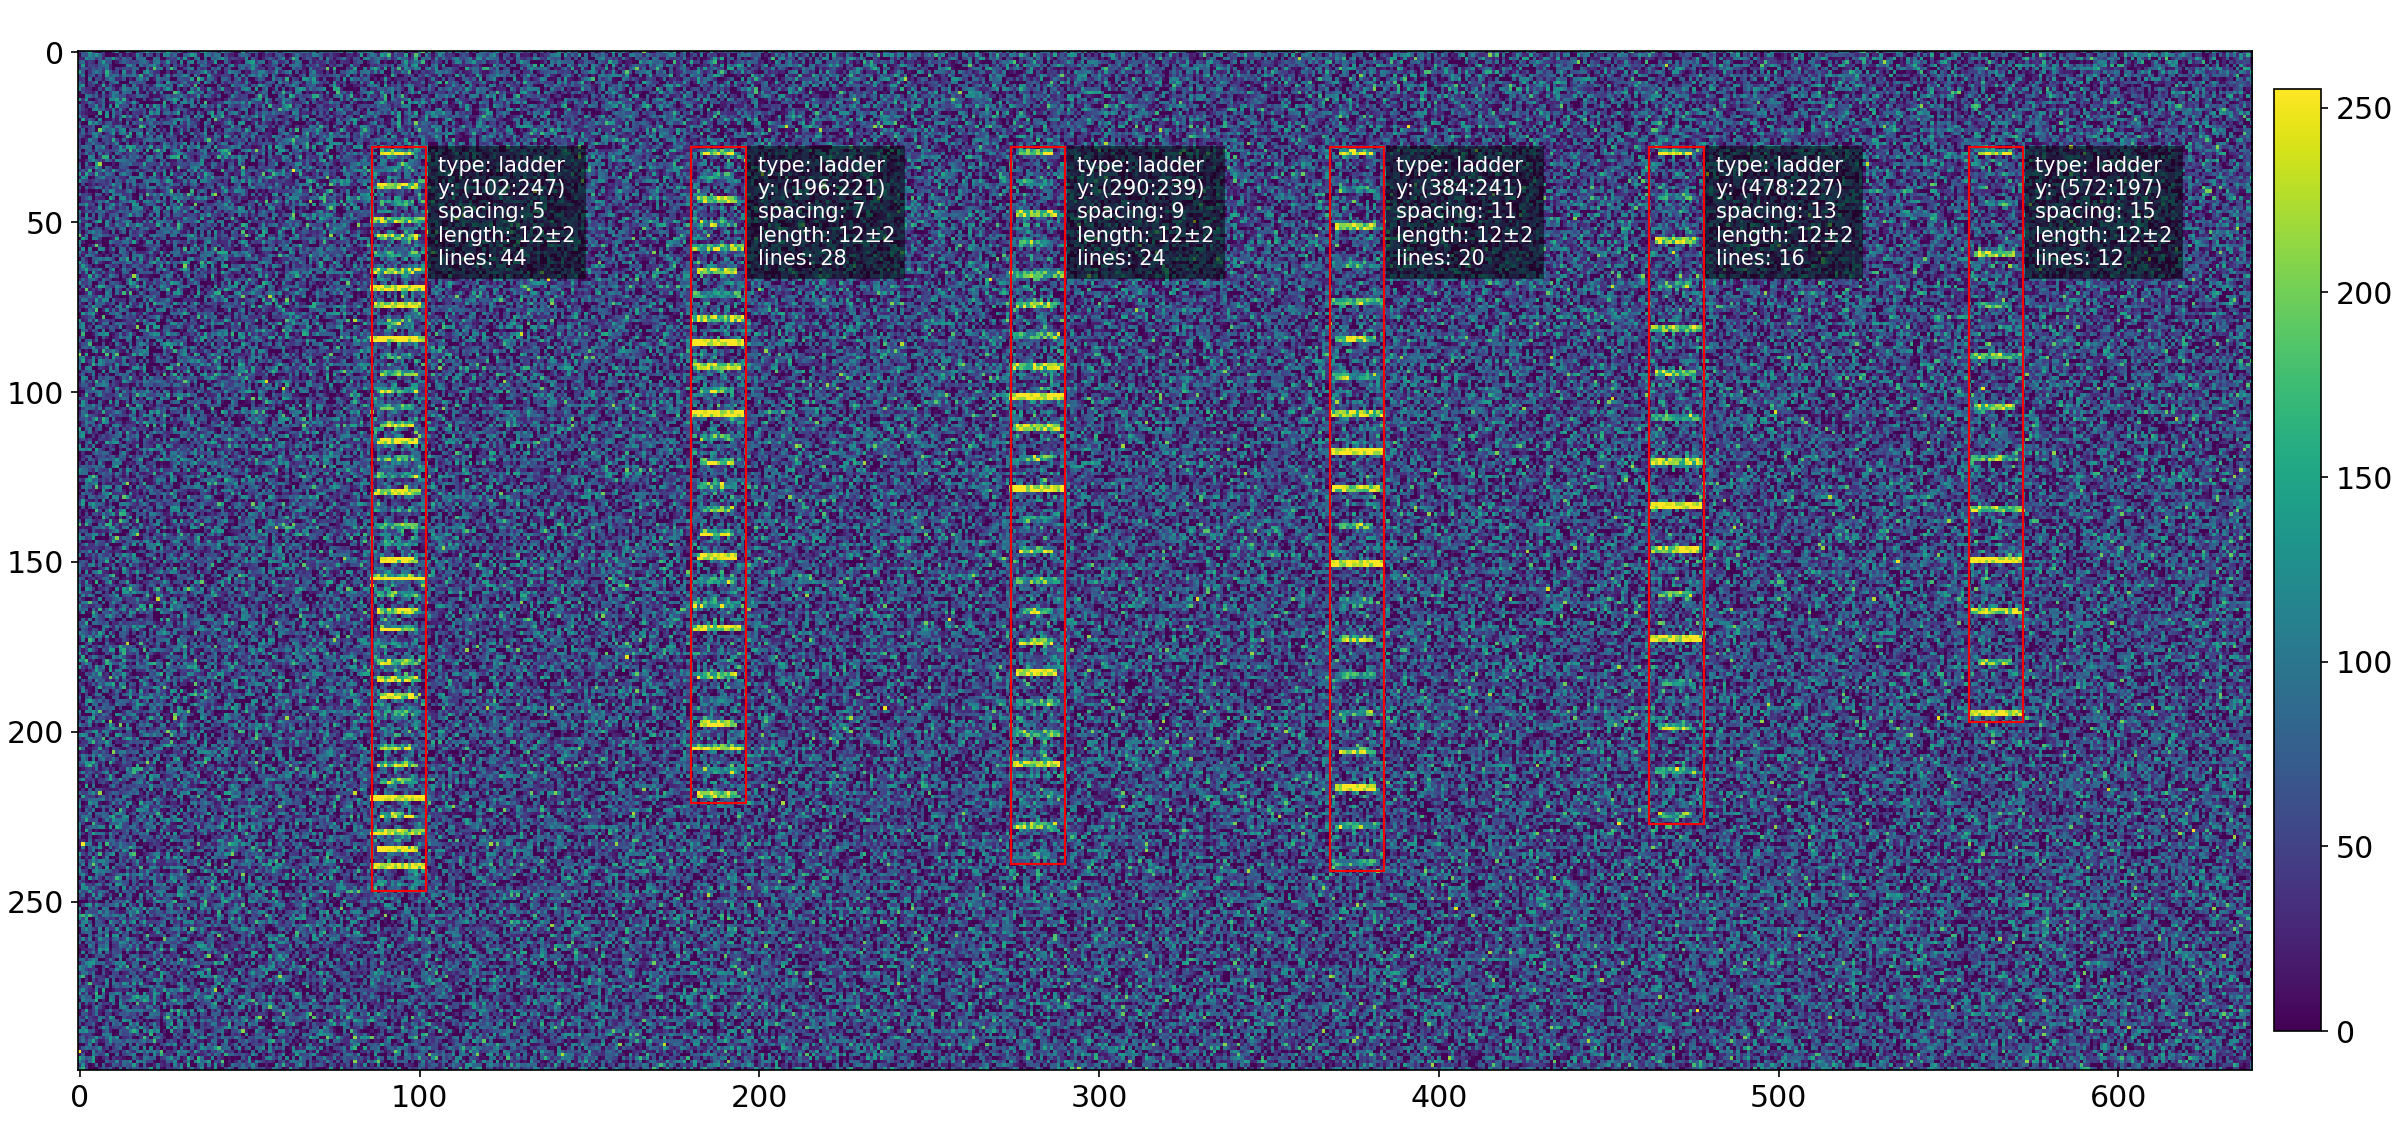
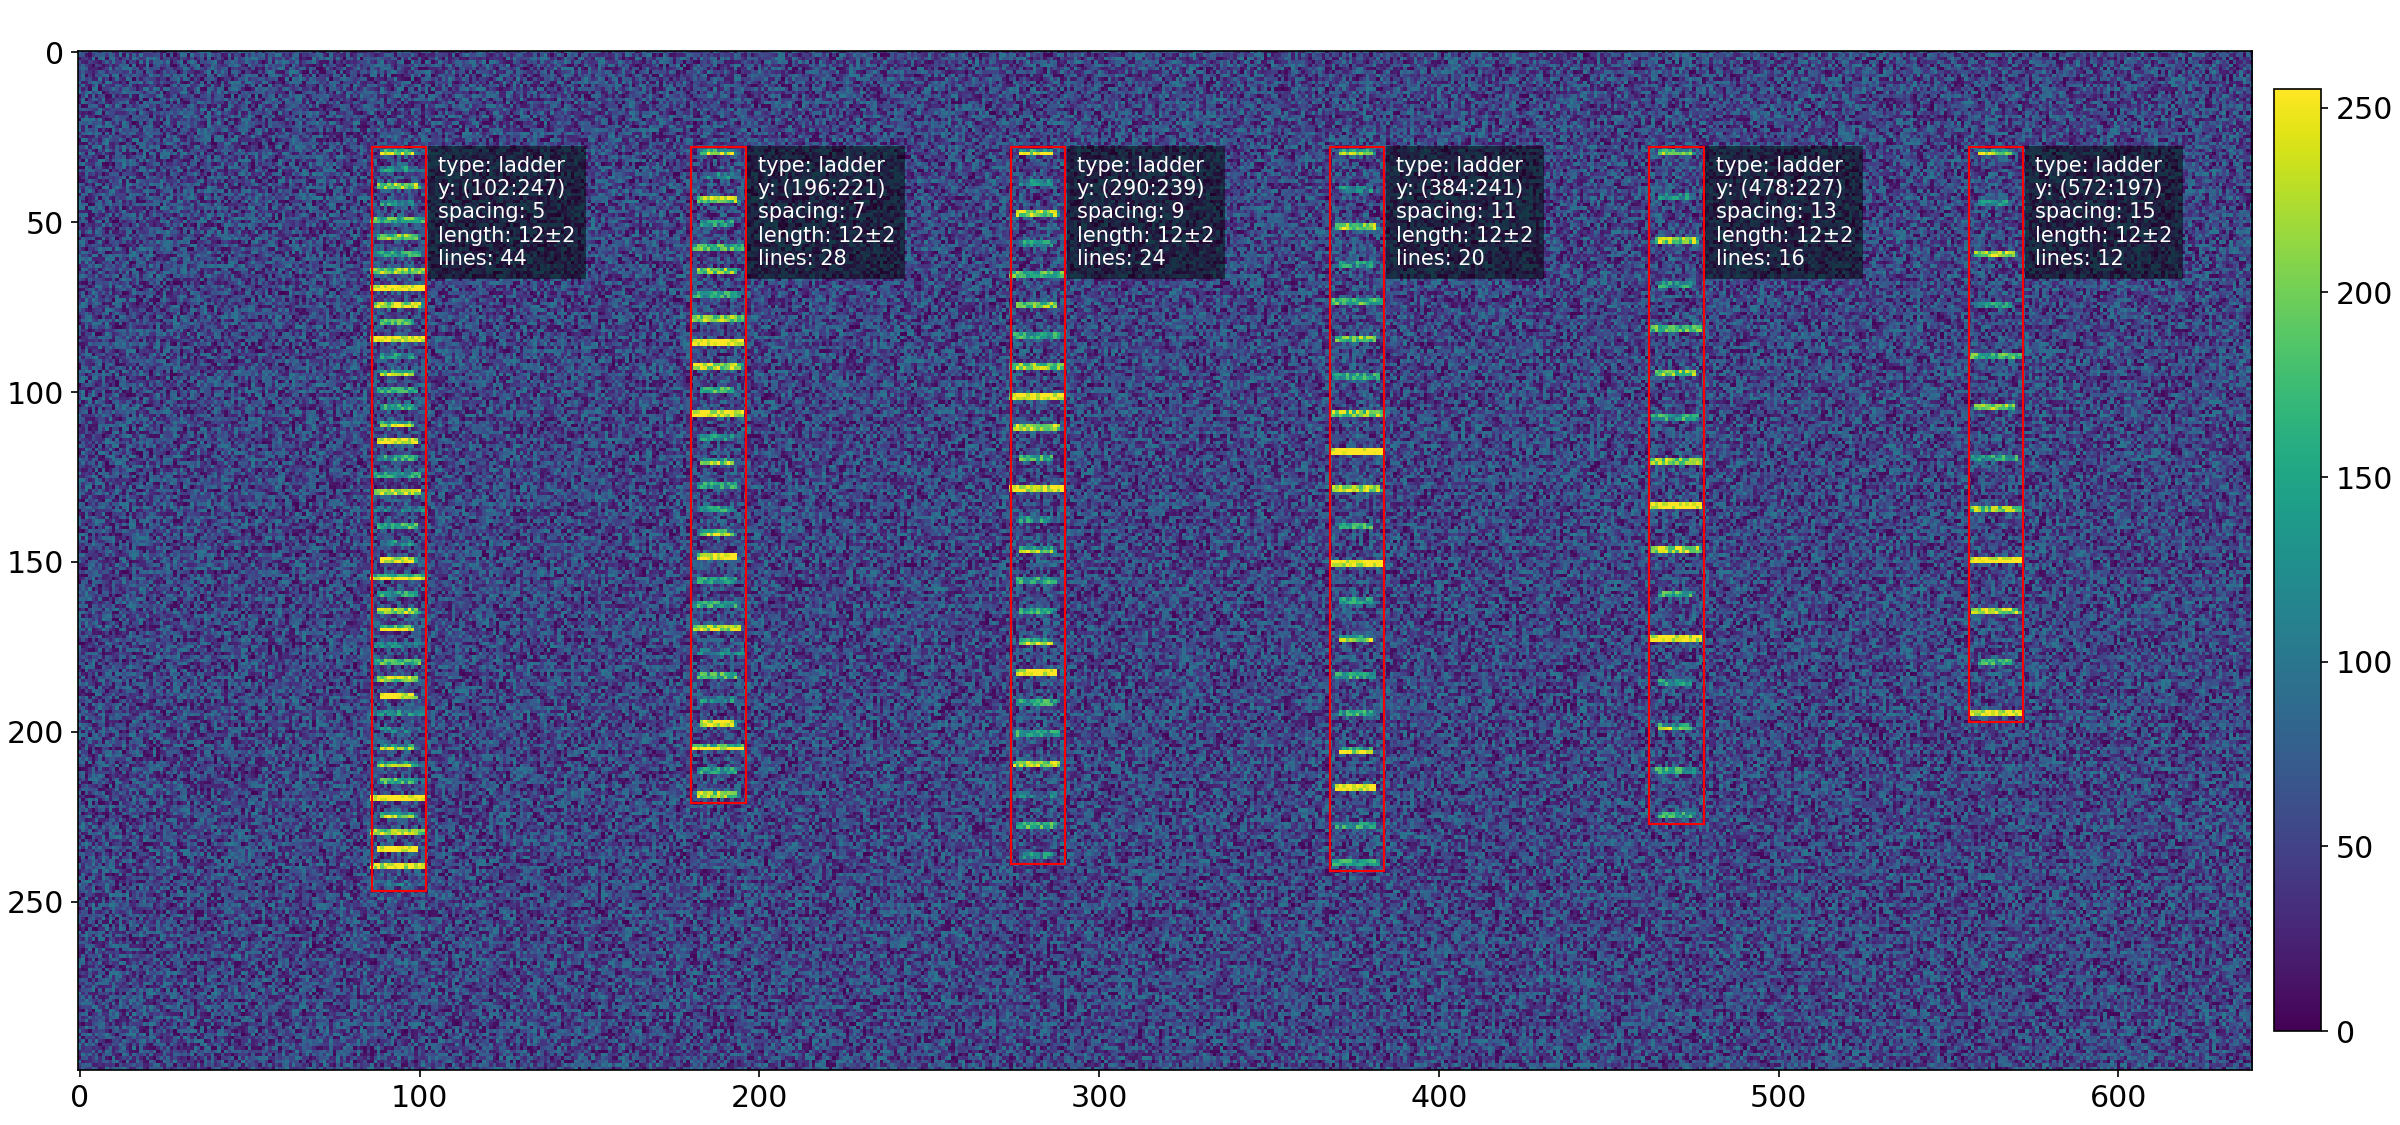
Test de bruit avec segmentation

diff --git a/ImageSynthetique.py b/ImageSynthetique.py
@@ -36,6 +36,7 @@ class Image:
         self.objects = []
         self.lines = []
         self.predicted = {}
+        self.labels = {}
 
     def create_image(self, noise_lvl, seed, classes):
         """Generate canvas for image.
@@ -64,9 +65,10 @@ class Image:
             seed (int): optional seed that determines random state
         """
         np.random.seed(seed)
-        random = np.random.normal(loc=intensity / 2,
-                                scale=intensity / 2,
-                                size=(self.height, self.width)).round()
+        random = np.random.randint(0, intensity, size=(self.height, self.width))
+        # random = np.random.normal(loc=intensity / 4,
+        #                         scale=intensity / 4,
+        #                         size=(self.height, self.width)).round()
         self.image += random
         pass
 
@@ -226,10 +228,9 @@ class Image:
         self.pad_h, self.pad_v = (pad_h, pad_v)
         windows_h = (self.width - window_size) // pad_h +1
         windows_v = (self.height - window_size) // pad_v +1
-        crops = np.zeros((windows_v, windows_h, window_size, window_size))
-        labels = np.zeros((windows_v, windows_h, self.classes))
-        segmentation_crops = np.zeros((windows_v, windows_h, window_size, window_size, self.classes))
-        number = np.zeros_like(labels)
+        self.crops = np.zeros((windows_v, windows_h, window_size, window_size))
+        self.labels['classif'] = np.zeros((windows_v, windows_h, self.classes))
+        self.labels['segm'] = np.zeros((windows_v, windows_h, window_size, window_size, self.classes))
         max = self.mask.max()
         for j in range(windows_v):
             y_m = j*pad_v
@@ -238,18 +239,14 @@ class Image:
                 x_m = i*pad_h
                 x_p = i*pad_h + window_size
                 crop = self.image[y_m:y_p, x_m:x_p]
-                crops[j, i, :, :] = crop
+                self.crops[j, i, :, :] = crop
                 mask_crop = self.mask[y_m:y_p, x_m:x_p]
-                # if mask_crop[mask_crop>0].size > threshold:
-                #     labels[j,i] = 1
-                # labels[j,i] = mask_crop[mask_crop>0].size
                 if mask_crop[mask_crop > 0].size:
                     segmentation_crop = self.segmentation[y_m:y_p, x_m:x_p]
                     if mask_crop[mask_crop > 0].size > threshold * max:
-                        labels[j, i] = 1
-                    segmentation_crops[j, i] = segmentation_crop
-
-        return crops, labels, number, segmentation_crops
+                        self.labels['classif'][j, i] = 1
+                    self.labels['segm'][j, i] = segmentation_crop
+        pass
 
     def compare_labels(self, resampled_labels, threshold):
         self.predicted['classif'] = self.resize_labels(resampled_labels)
@@ -306,7 +303,7 @@ class Image:
     def calssification_predict(self, model, ds_test, shape, threshold):
         predicted_labels = model.predict(ds_test.batch(32))
         predict = predicted_labels.reshape(shape)
-        predict_thr = np.where(predict > threshold, 1, 0)
+        self.predicted['classif'] = np.where(predict > threshold, 1, 0)
         plt.figure(figsize=(20, 5))
         plt.subplot(121)
         for obj in self.objects:
@@ -326,9 +323,9 @@ class Image:
 
         plt.imshow(predict, vmin=0, vmax=1)
         plt.subplot(122)
-        plt.imshow(predict_thr, vmin=0, vmax=1)
+        plt.imshow(self.predicted['classif'], vmin=0, vmax=1)
         plt.yticks([])
-        return predict_thr
+        pass
 
 
 
@@ -402,30 +399,30 @@ class Image:
     def confusion_matrix(self, type):
         plt.figure(figsize=(4.5,3))
         predicted = self.predicted[type].reshape(-1)
-
-        if type == 'segm':
-            mask = self.segmentation.reshape(-1)/255
-        elif type == 'classif':
-            mask = self.mask.reshape(-1)/255
-
-        cf_matrix = tf.math.confusion_matrix(mask, predicted).numpy()
-        group_names = ["Vrai fond", "Fausse échelle", "Faux fond", "Vraie échelle"]
-        group_counts = ["{0:0.0f}".format(value) for value in
-                        cf_matrix.flatten()]
-        group_counts[-1] += ' ('+str(sum(cf_matrix[1, :]))+')'
-        cf_labels = [f"{v1}\n{v2}" for v1, v2 in zip(group_names, group_counts)]
-
-        cf_labels = np.asarray(cf_labels).reshape(2, 2)
-
-        sns.heatmap(cf_matrix,
-                    annot=cf_labels, fmt="",
-                    cmap=['lightgray'], cbar=False,
-                    linewidths=0.5, linecolor='black',
-                    square=True,
-                    xticklabels=['Fond', 'Échelle'], yticklabels=['Fond', 'Échelle'])
-
-        plt.ylabel('Label réel')
-        plt.xlabel('Label prédit')
+        if type == 'classif':
+            labels = self.labels[type].reshape(-1)
+        else:
+            labels = self.segmentation.reshape(-1)
+            labels /= labels.max()
+        cf_matrix = tf.math.confusion_matrix(labels, predicted).numpy()
+        # group_names = ["Vrai fond", "Fausse échelle", "Faux fond", "Vraie échelle"]
+        # group_counts = ["{0:0.0f}".format(value) for value in
+        #                 cf_matrix.flatten()]
+        # group_counts[-1] += ' ('+str(sum(cf_matrix[1, :]))+')'
+        # cf_labels = [f"{v1}\n{v2}" for v1, v2 in zip(group_names, group_counts)]
+        #
+        # cf_labels = np.asarray(cf_labels).reshape(2, 2)
+        #
+        # sns.heatmap(cf_matrix,
+        #             annot=cf_labels, fmt="",
+        #             cmap=['lightgray'], cbar=False,
+        #             linewidths=0.5, linecolor='black',
+        #             square=True,
+        #             xticklabels=['Fond', 'Échelle'], yticklabels=['Fond', 'Échelle'])
+        #
+        # plt.ylabel('Label réel')
+        # plt.xlabel('Label prédit')
+        print(cf_matrix)
         sensibilite = cf_matrix[1, 1] / (cf_matrix[1, 1] + cf_matrix[0, 1])
         specificite = cf_matrix[0, 0] / (cf_matrix[0, 0] + cf_matrix[1, 0])
         print('Sensibilité : '+str(sensibilite))

diff --git a/main.py b/main.py
@@ -28,6 +28,7 @@ def main():
     threshold = float(sys.argv[2])
     window_size = 32
     img_dir = 'images/'
+    BACKBONE = 'resnet34'
     var_time = timing()
     if sys.argv[1] == 'train':
         # Image test
@@ -64,16 +65,21 @@ def main():
         # labels /= labels.max()
         # img_shape = (window_size,window_size,1)
         # ds_train, ds_val = crops_to_dataset(crops, labels, balanced=False, split=True)
-    if sys.argv[1] == 'test':
+    elif sys.argv[1] == 'test':
         # Image test
         seed = 500
-        bruit_min, bruit_max = float(sys.argv[3]), float(sys.argv[4])
-        range = np.arange(bruit_min, bruit_max+0.1, 0.1).round(1)
-        img_shape = (window_size, window_size, 1)
+        noise_min, noise_max = float(sys.argv[3]), float(sys.argv[4])
+        range = np.arange(noise_min, noise_max+0.1, 0.1).round(1)
+        img_shape = (window_size, window_size)
+        # Define models
+        # Classification
         classif_model = ds.classification_model(img_shape)
         classif_model.load_weights('weights/classif/classif')
-        classif_model_noise = ds.classification_model(img_shape)
-        classif_model_noise.load_weights('weights/classif_noise/classif')
+        # Segmenation
+        segm_model = ds.segmentation_model(img_shape, backbone=BACKBONE)
+        segm_model.load_weights('weights/segm/segm')
+        m_classif = {'sensibilité': np.zeros((6)), 'specificité': np.zeros((6))}
+        m_segm = {'sensibilité': np.zeros((6)), 'specificité': np.zeros((6))}
         for noise_lvl in range:
             test = imsy.Image(300, noise_lvl=noise_lvl, seed=seed)
             # Premier objet
@@ -86,15 +92,63 @@ def main():
             test.plot_label()
             niv_str = str(noise_lvl).replace('.', '_')
             plt.savefig(img_dir+'test_'+niv_str)
-            var_time = timing('test', var_time)
+            var_time = timing('test image generation', var_time)
 
             pad_h = 16
             pad_v = 16
-            crops, labels, _, segmentation_crops = test.sliding_window(window_size, pad_h, pad_v, threshold)
-            ds_test = ds.crops_to_dataset(crops, labels[:, :, 0], shuffle=False)
-            test.calssification_predict(classif_model, ds_test, labels[:, :, 0].shape, threshold)
-            var_time = timing('classification prediction for noise level '+str(noise_lvl), var_time)
+            test.sliding_window(window_size, pad_h, pad_v, threshold)
+            ds_test = ds.crops_to_dataset(test.crops, test.labels['classif'][:, :, 0], shuffle=False)
+            test.calssification_predict(classif_model, ds_test, test.labels['classif'][:, :, 0].shape, threshold)
             plt.savefig(img_dir+'test_classif_'+niv_str)
+            var_time = timing('classification prediction for noise level '+str(noise_lvl), var_time)
+
+            index = int(noise_lvl*10) - 1
+            _, m_classif['sensibilité'][index], m_classif['specificité'][index] = test.confusion_matrix('classif')
+
+            var_time = timing()
+            # Segmenation
+            test.sliding_window(window_size, pad_h=window_size, pad_v=window_size, threshold=0.8)
+            test.segmentation_predict(segm_model, test.crops, threshold=0.99)
+            _, m_segm['sensibilité'][index], m_segm['specificité'][index] = test.confusion_matrix('segm')
+
+            var_time = timing('test_segm', var_time)
+            plt.savefig('test_predict_segm')
+        np.savetxt('m_classif', np.array([m_classif['sensibilité'], m_classif['specificité']]))
+        np.savetxt('m_segm', np.array([m_segm['sensibilité'], m_segm['specificité']]))
+    elif sys.argv[1] == 'test_sens':
+        m = np.loadtxt('m_classif')
+        m_classif = {}
+        m_classif['sensibilité'], m_classif['specificité'] = m[0], m[1]
+        m = np.loadtxt('m_segm')
+        m_segm = {}
+        m_segm['sensibilité'], m_segm['specificité'] = m[0], m[1]
+        
+        noise_min, noise_max = float(sys.argv[2]), float(sys.argv[3])
+        range = np.arange(noise_min, noise_max+0.1, 0.1).round(1)
+
+        fig, (ax1, ax2) = plt.subplots(2,1, figsize=(8,8), constrained_layout=True, sharex=True)
+        ax1.title.set_text('Classification')
+        ax1.plot(range, m_classif['sensibilité'], label='Sensibilité')
+        ax1.set_xlim(xmin=noise_min, xmax=noise_max)
+        ax1.set_ylim(ymin=0.45, ymax=1)
+        ax1.plot(range, m_classif['specificité'], label='Specificité')
+        ax1.legend(loc='lower right')
+
+        ax2.title.set_text('Segmentation')
+        ax2.plot(range, m_segm['sensibilité'], label='Sensibilité')
+        ax2.set_ylim(ymin=0.2, ymax=1)
+        ax2.plot(range, m_segm['specificité'], label='Specificité')
+        ax2.legend(loc='lower right')
+        plt.savefig(img_dir+'sens_spec')
+
+        plt.figure(figsize=(10, 5), constrained_layout=True)
+        plt.gca().title.set_text('Classification')
+        plt.plot(range, m_classif['sensibilité'], label='Sensibilité')
+        plt.gca().set_xlim(xmin=noise_min, xmax=noise_max)
+        plt.gca().set_ylim(ymin=0.8, ymax=1)
+        plt.plot(range, m_classif['specificité'], label='Specificité')
+        plt.legend(loc='lower right')
+
 
 
 if __name__ == "__main__":

diff --git a/Dataset.py b/Dataset.py
@@ -2,7 +2,8 @@ import tensorflow as tf
 # import tensorflow_datasets as tfds
 from tensorflow import keras
 import numpy as np
-# import segmentation_models as sm
+import segmentation_models as sm
+sm.framework()
 
 
 def to_one_hot(image, label):
@@ -72,7 +73,7 @@ def classification_model(img_shape, fine_tune_layers=0, dropout=False):
         base_model.trainable = False
 
     # Create new model on top
-    inputs = keras.Input(shape=img_shape)
+    inputs = keras.Input(shape=img_shape+(1,))
     x = inputs
     if img_shape[0] != 32:
         x = keras.layers.experimental.preprocessing.Resizing(32,32)(x)
